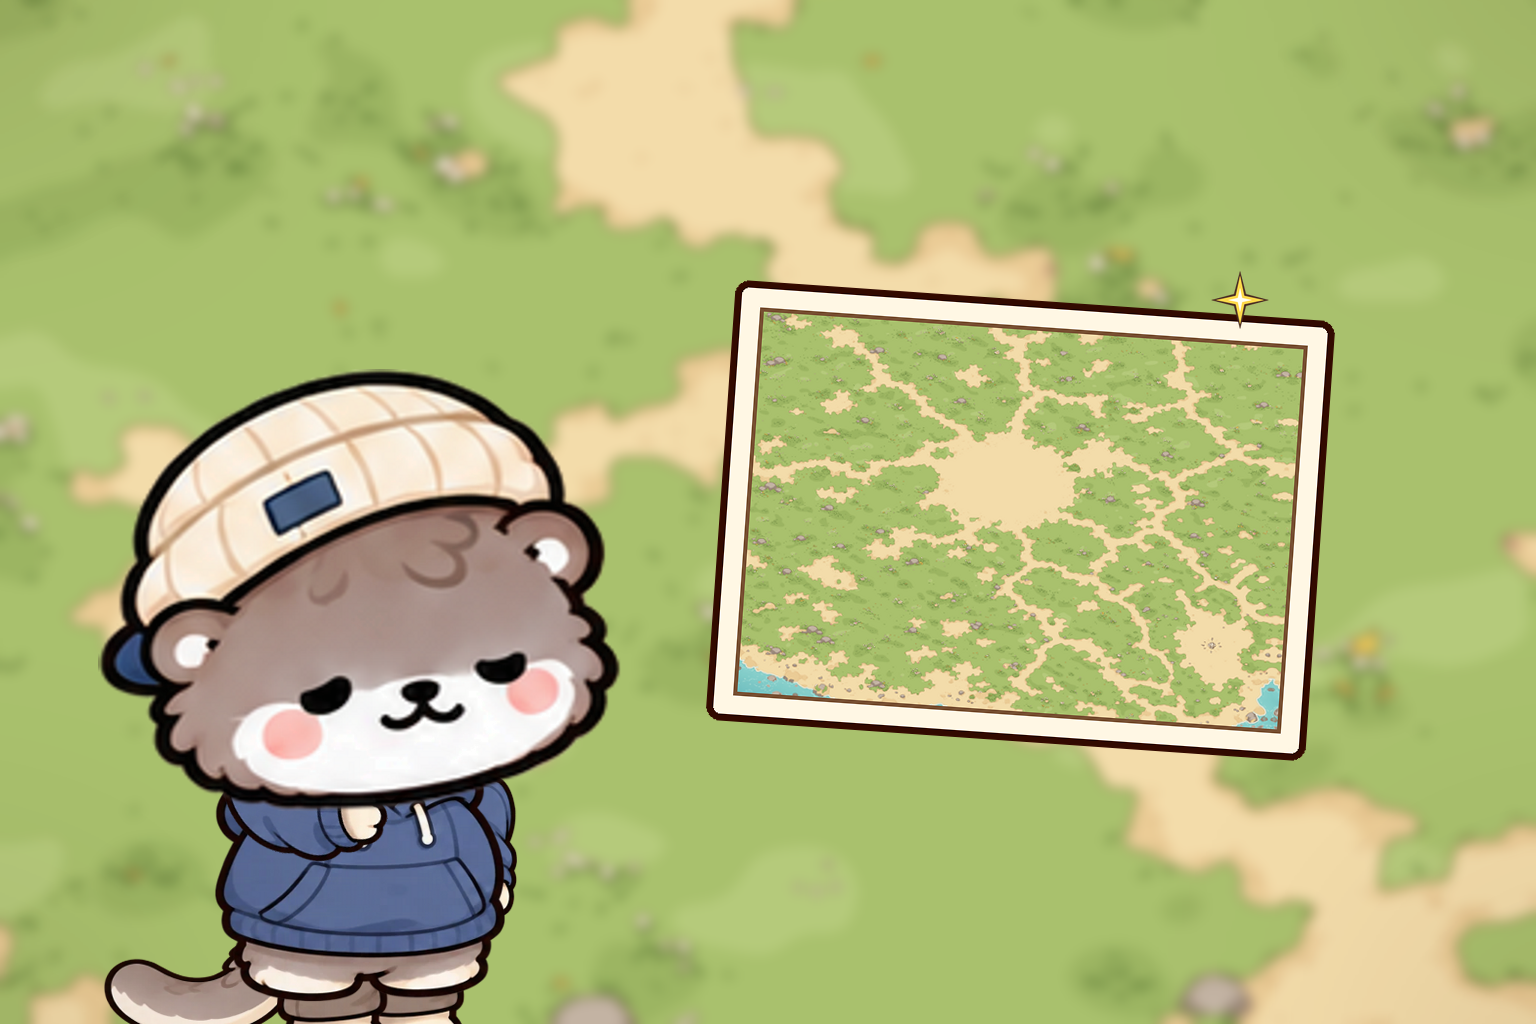
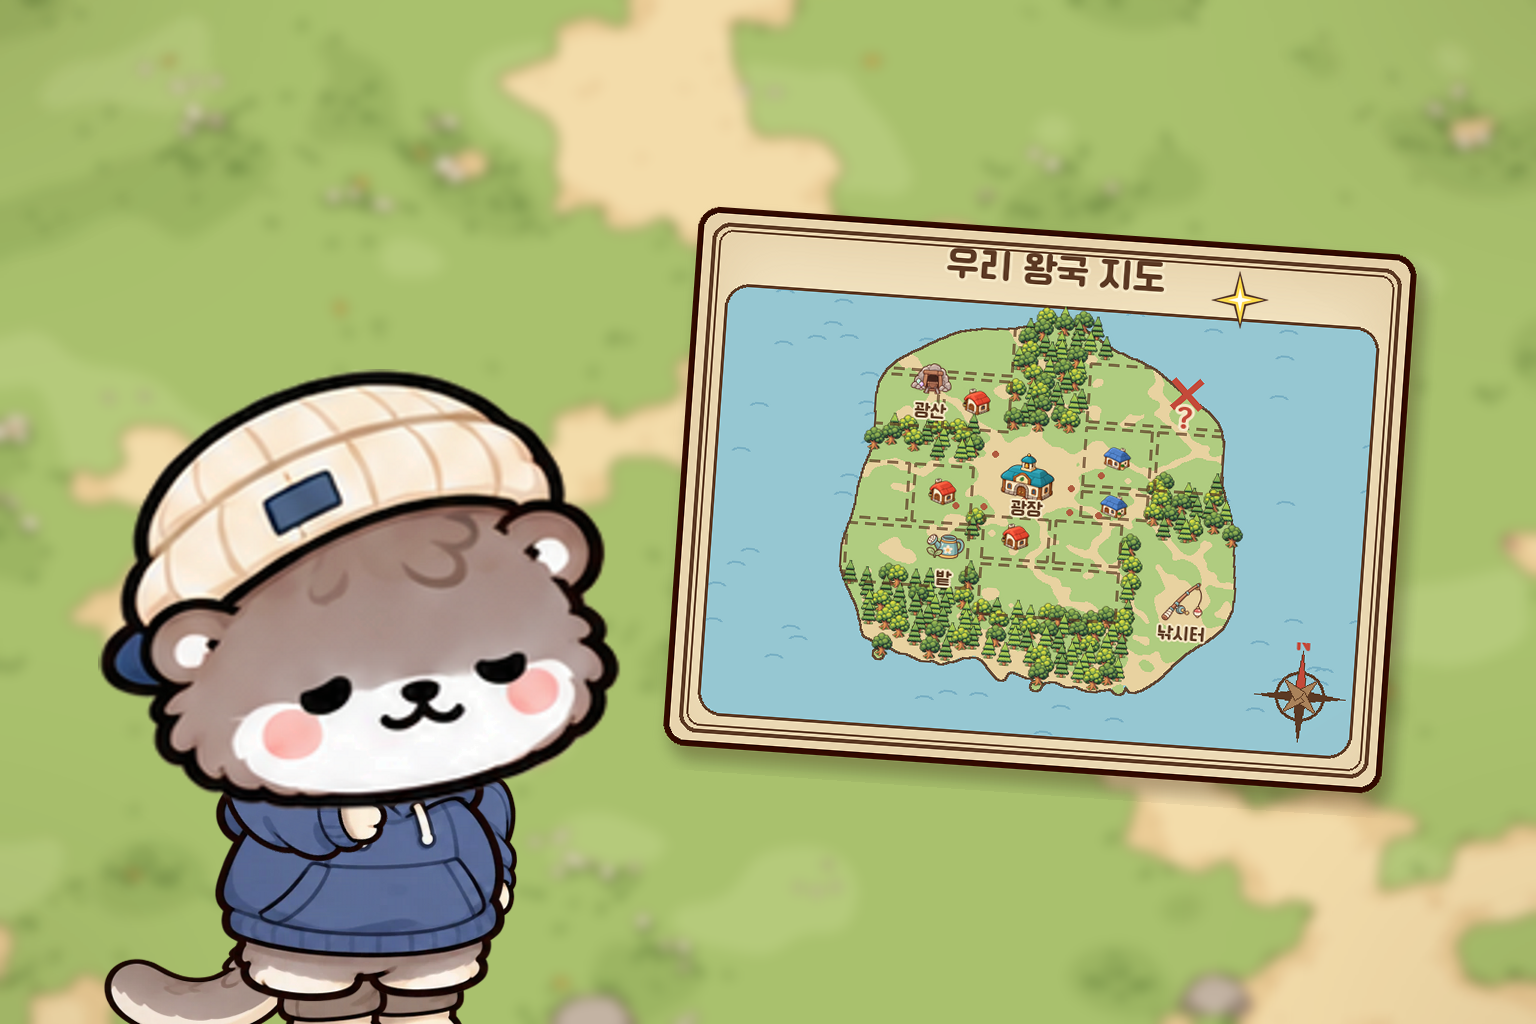
feat: 두리번의 왕국 지도 — 우리 땅 전체 미니어처
- Tools/StoryCuts/worldmap.py: 광장 맵을 섬 모양으로 잘라 지도 색 · 영토 경계 점선 · 숲 · 광장 · 집 · 밭 · 광산 · 낚시터 · 나침반
- 두리번 이야기 B컷과 순간포착 '아 이쪽이었구나' 사진의 지도를 교체

Changed region(s): [[0.4062, 0.1875, 0.9375, 0.8125]]

diff --git a/Tools/StoryCuts/worldmap.py b/Tools/StoryCuts/worldmap.py
@@ -1,0 +1,262 @@
+"""두리번이 그린 왕국 지도: 우리 땅 전체(광장 맵 + 5방향 영토 + 바닷가)를 양피지 위 미니어처로.
+
+땅 모양은 진짜 맵(Plaza_WorldMap.jpg)을 줄여 지도 색으로 칠하고, 영토 경계(territory_layout.json)를 점선으로,
+영토 밖은 작은 나무 그림(게임 숲 그림)으로 채운다. 광장 · 집 · 밭 · 광산 · 낚시터는 게임 그림을 작게.
+
+    python Tools/StoryCuts/worldmap.py out.png      # 지도만 미리 보기
+"""
+import json
+import math
+import random
+import sys
+
+from PIL import Image, ImageChops, ImageDraw, ImageFilter, ImageFont
+
+import scene as s
+from scene import img, fit
+
+LAYOUT = json.loads((s.ART / "Plaza/territory_layout.json").read_text(encoding="utf-8"))
+TITLE_FONT = s.ROOT / "Assets/Fonts/Cafe24Ssurround-v2.0.otf"
+BODY_FONT = s.ROOT / "Assets/Fonts/NanumSquareRoundOTFR.otf"
+
+INK = (92, 58, 36)
+PARCHMENT = (244, 230, 196)
+SEA = (150, 199, 210)
+SEA_DEEP = (120, 176, 196)
+GRASS = (176, 204, 128)
+SAND = (232, 210, 160)
+
+
+def _ground_to_map(x, y, k, off):
+    """territory_layout 바닥 좌표 → 지도 그림 좌표"""
+    m = LAYOUT["map"]
+    return off[0] + (x - m["x0"]) * k, off[1] + (y - m["y0"]) * k
+
+
+def _land_colors(world):
+    """맵 그림을 지도 색 세 가지(바다 · 모래길 · 풀)로"""
+    rgb = world.convert("RGB")
+    r, g, b = [ch.point(lambda v: v) for ch in rgb.split()]
+    px = rgb.load()
+    out = Image.new("RGB", rgb.size)
+    o = out.load()
+    for y in range(rgb.height):
+        for x in range(rgb.width):
+            rr, gg, bb = px[x, y]
+            if bb > rr + 25 and bb > gg - 10:
+                o[x, y] = SEA
+            elif rr > 200 and gg > 175 and bb > 120:
+                o[x, y] = SAND
+            else:
+                o[x, y] = GRASS
+    # 잔무늬를 지우고 덩어리만 (지도처럼)
+    return out.filter(ImageFilter.ModeFilter(9)).filter(ImageFilter.ModeFilter(7))
+
+
+def _outline(mask, width, color):
+    """마스크 가장자리에 잉크 선"""
+    edge = ImageChops.subtract(mask.filter(ImageFilter.MaxFilter(width | 1)), mask)
+    layer = Image.new("RGBA", mask.size, color + (0,))
+    layer.putalpha(edge.point(lambda v: 230 if v > 60 else 0))
+    return layer
+
+
+def _dashed_rect(d, box, dash=10, gap=8, width=3, color=INK + (170,)):
+    x0, y0, x1, y1 = box
+    for (ax, ay, bx, by) in ((x0, y0, x1, y0), (x1, y0, x1, y1), (x1, y1, x0, y1), (x0, y1, x0, y0)):
+        length = math.hypot(bx - ax, by - ay)
+        n = int(length // (dash + gap)) + 1
+        for i in range(n):
+            t0 = i * (dash + gap) / length
+            t1 = min(1, (i * (dash + gap) + dash) / length)
+            d.line((ax + (bx - ax) * t0, ay + (by - ay) * t0, ax + (bx - ax) * t1, ay + (by - ay) * t1), fill=color, width=width)
+
+
+def _compass(size):
+    im = Image.new("RGBA", (size, size))
+    d = ImageDraw.Draw(im)
+    c = size / 2
+    r = size * .42
+    d.ellipse((c - r * .55, c - r * .55, c + r * .55, c + r * .55), outline=INK + (255,), width=3)
+    for a, long in ((0, 1), (90, 1), (180, 1), (270, 1), (45, .55), (135, .55), (225, .55), (315, .55)):
+        rad = math.radians(a - 90)
+        tip = (c + math.cos(rad) * r * long, c + math.sin(rad) * r * long)
+        side = math.radians(a)
+        w = r * .14
+        left = (c + math.cos(side) * w, c + math.sin(side) * w)
+        right = (c - math.cos(side) * w, c - math.sin(side) * w)
+        fill = (196, 74, 58, 255) if a == 0 else (INK + (255,) if long == 1 else (170, 130, 90, 255))
+        d.polygon([tip, left, (c, c), right], fill=fill, outline=INK + (255,))
+    font = ImageFont.truetype(str(TITLE_FONT), int(size * .2))
+    d.text((c, c - r - size * .02), "N", font=font, fill=(196, 74, 58, 255), anchor="ms")
+    return im
+
+
+def _label(d, xy, text, size, font=TITLE_FONT, fill=INK, stroke=PARCHMENT):
+    f = ImageFont.truetype(str(font), size)
+    d.text(xy, text, font=f, fill=fill + (255,), anchor="mm", stroke_width=max(2, size // 9), stroke_fill=stroke + (255,))
+
+
+def miniature_map(width=1200, height=900, seed=7):
+    """양피지 지도 한 장 (RGBA)"""
+    rnd = random.Random(seed)
+    m = LAYOUT["map"]
+    gw, gh = m["x1"] - m["x0"], m["y1"] - m["y0"]
+    margin = int(width * .06)
+    # 바다 판: 제목 아래부터 테두리 안쪽까지
+    sea_box = (margin * .75, margin + height * .06, width - margin * .75, height - margin * .75)
+    k = min((sea_box[2] - sea_box[0]) * .9 / gw, (sea_box[3] - sea_box[1]) * .92 / gh)
+    off = ((sea_box[0] + sea_box[2] - gw * k) / 2, (sea_box[1] + sea_box[3] - gh * k) / 2)
+
+    # 양피지 (가장자리가 조금 짙고 얼룩진)
+    paper = Image.new("RGBA", (width, height), PARCHMENT + (255,))
+    stain = Image.new("L", (width, height), 0)
+    sd = ImageDraw.Draw(stain)
+    for _ in range(18):
+        x, y, r = rnd.uniform(0, width), rnd.uniform(0, height), rnd.uniform(40, 160)
+        sd.ellipse((x - r, y - r, x + r, y + r), fill=rnd.randint(10, 26))
+    edge = Image.new("L", (width, height), 0)
+    ImageDraw.Draw(edge).rectangle((0, 0, width, height), outline=70, width=int(width * .05))
+    shade = ImageChops.add(stain.filter(ImageFilter.GaussianBlur(40)), edge.filter(ImageFilter.GaussianBlur(int(width * .04))))
+    paper = Image.composite(Image.new("RGBA", (width, height), (196, 160, 110, 255)), paper, shade)
+
+    # 바다 (물결 줄)
+    sea = Image.new("RGBA", (width, height), SEA + (255,))
+    wd = ImageDraw.Draw(sea)
+    for _ in range(int(width * height / 4500)):
+        x, y = rnd.uniform(0, width), rnd.uniform(0, height)
+        wd.arc((x - 10, y - 4, x + 10, y + 6), 200, 340, fill=SEA_DEEP + (255,), width=2)
+    sea_mask = Image.new("L", (width, height), 0)
+    ImageDraw.Draw(sea_mask).rounded_rectangle(tuple(int(v) for v in sea_box), 24, fill=255)
+    paper.paste(sea, (0, 0), sea_mask)
+
+    # 땅 (진짜 맵을 줄여 지도 색으로) — 네모 맵을 섬 모양으로 잘라 바다에 띄움
+    world = s.world_map().resize((int(gw * k), int(gh * k)), Image.LANCZOS)
+    land = _land_colors(world).convert("RGBA")
+    island = Image.new("L", land.size, 0)
+    cx, cy = land.width / 2, land.height / 2
+    phase = [rnd.uniform(0, 6.28) for _ in range(3)]
+    outline = []
+    for i in range(240):
+        a = i / 240 * 2 * math.pi
+        ca, sa = math.cos(a), math.sin(a)
+        # 모서리가 둥근 네모(초타원) + 들쭉날쭉한 해안
+        r = 1 / ((abs(ca) ** 2.7 + abs(sa) ** 2.7) ** (1 / 2.7))
+        r *= 1.0 + .05 * math.sin(3 * a + phase[0]) + .03 * math.sin(7 * a + phase[1]) + .015 * math.sin(13 * a + phase[2])
+        outline.append((cx + ca * r * cx * .93, cy + sa * r * cy * .93))
+    ImageDraw.Draw(island).polygon(outline, fill=255)
+    land_mask = Image.new("L", land.size, 0)
+    lp, mp, ip = land.load(), land_mask.load(), island.load()
+    for y in range(land.height):
+        for x in range(land.width):
+            if lp[x, y][:3] != SEA and ip[x, y]:
+                mp[x, y] = 255
+    land_mask = land_mask.filter(ImageFilter.ModeFilter(5))
+    mp = land_mask.load()
+    paper.paste(land, (int(off[0]), int(off[1])), land_mask)
+    coast = _outline(land_mask, 5, INK)
+    paper.alpha_composite(coast, (int(off[0]), int(off[1])))
+    # 바다 판 테두리
+    ImageDraw.Draw(paper).rounded_rectangle(tuple(int(v) for v in sea_box), 24, outline=INK + (200,), width=3)
+
+    d = ImageDraw.Draw(paper)
+    # 영토 밖 = 숲: 작은 나무를 흩뿌림 (시작 땅 · 영토 · 바닷가는 비움)
+    regions = [r["rect"] for r in LAYOUT["regions"]]
+
+    def in_region(gx, gy):
+        return any(r["x0"] <= gx <= r["x1"] and r["y0"] <= gy <= r["y1"] for r in regions)
+
+    trees = [fit(img(f"Plaza/Territory/Forest_{n}.png"), int(height * .045)) for n in ("Pine_0", "Pine_1", "Oak_0", "Oak_1")]
+    step = height * .03
+    gy = m["y0"] + 60
+    pts = []
+    while gy < m["y1"]:
+        gx = m["x0"] + 60
+        while gx < m["x1"]:
+            jx, jy = gx + rnd.uniform(-.35, .35) * step / k, gy + rnd.uniform(-.3, .3) * step / k
+            px_, py_ = _ground_to_map(jx, jy, k, off)
+            lx, ly = int(px_ - off[0]), int(py_ - off[1])
+            if 0 <= lx < land.width and 0 <= ly < land.height and mp[lx, ly] and not in_region(jx, jy):
+                pts.append((px_, py_))
+            gx += step / k
+        gy += step / k * .8
+    for px_, py_ in sorted(pts, key=lambda p: p[1]):
+        t = rnd.choice(trees)
+        paper.alpha_composite(t, (int(px_ - t.width / 2), int(py_ - t.height)))
+
+    # 영토 경계: 점선 네모 (섬 안쪽만)
+    dashes = Image.new("RGBA", (width, height))
+    dd = ImageDraw.Draw(dashes)
+    for r in LAYOUT["regions"]:
+        if r["id"] == "start" or r["id"].startswith("shore"):
+            continue
+        a = _ground_to_map(r["rect"]["x0"], r["rect"]["y0"], k, off)
+        b = _ground_to_map(r["rect"]["x1"], r["rect"]["y1"], k, off)
+        _dashed_rect(dd, (a[0] + 3, a[1] + 3, b[0] - 3, b[1] - 3))
+    on_island = Image.new("L", (width, height), 0)
+    on_island.paste(island, (int(off[0]), int(off[1])))
+    dashes.putalpha(ImageChops.multiply(dashes.getchannel("A"), on_island))
+    paper.alpha_composite(dashes)
+
+    # 길: 광장에서 각 방향 집으로 점선 발자국 길
+    plaza = _ground_to_map((LAYOUT["start"]["x0"] + LAYOUT["start"]["x1"]) / 2, (LAYOUT["start"]["y0"] + LAYOUT["start"]["y1"]) / 2, k, off)
+    for home in LAYOUT["homes"]["list"]:
+        hx, hy = _ground_to_map(home["x"], home["y"], k, off)
+        n = int(math.hypot(hx - plaza[0], hy - plaza[1]) / 14)
+        for i in range(1, n):
+            t = i / n
+            x = plaza[0] + (hx - plaza[0]) * t
+            y = plaza[1] + (hy - plaza[1]) * t + math.sin(t * math.pi) * 18
+            if i % 2:
+                d.ellipse((x - 3, y - 3, x + 3, y + 3), fill=(176, 92, 64, 230))
+        house = fit(img("Plaza/Props/Prop_House_Red_OtterStyle.png" if hx < plaza[0] else "Plaza/Props/Prop_House_Blue_OtterStyle.png"), int(height * .06))
+        paper.alpha_composite(house, (int(hx - house.width / 2), int(hy - house.height * .8)))
+
+    # 이름 붙은 곳: 광장(마을 회관) · 밭 · 광산 · 낚시터
+    shore = next(r for r in LAYOUT["regions"] if r["id"] == "shore")["rect"]
+    marks = [
+        ("Settlement/Prop_TownHall.png", plaza[0], plaza[1] + height * .03, .11, "광장"),
+        ("UI/Travel/ICON_Place_Farm.png", *_ground_to_map(-1900, 330, k, off), .075, "밭"),
+        ("UI/Travel/ICON_Place_Mine.png", *_ground_to_map(-2150, -1330, k, off), .08, "광산"),
+        ("UI/Travel/ICON_Place_FishingSpot.png", *_ground_to_map((shore["x0"] + shore["x1"]) / 2, shore["y0"] + 700, k, off), .08, "낚시터"),
+    ]
+    for path, x, y, h, name in marks:
+        icon = fit(img(path), int(height * h))
+        paper.alpha_composite(icon, (int(x - icon.width / 2), int(y - icon.height * .85)))
+        _label(d, (x, y + height * .03), name, int(height * .032))
+
+    # 아직 못 가 본 곳: 빨간 X (두리번의 다음 목적지)
+    x, y = _ground_to_map(400, -1500, k, off)
+    d.line((x - 14, y - 14, x + 14, y + 14), fill=(196, 74, 58, 255), width=7)
+    d.line((x - 14, y + 14, x + 14, y - 14), fill=(196, 74, 58, 255), width=7)
+    _label(d, (x, y + height * .045), "?", int(height * .05), fill=(196, 74, 58))
+
+    # 나침반 · 제목 · 테두리
+    comp = _compass(int(height * .2))
+    paper.alpha_composite(comp, (int(width - margin - comp.width * .9), int(height - margin - comp.height * .95)))
+    _label(d, (width / 2, margin * .9), "우리 왕국 지도", int(height * .065))
+    d.rounded_rectangle((margin * .35, margin * .35, width - margin * .35, height - margin * .35), 18, outline=INK + (200,), width=4)
+    d.rounded_rectangle((margin * .5, margin * .5, width - margin * .5, height - margin * .5), 14, outline=INK + (120,), width=2)
+
+    # 종이 모양 (모서리 둥글게)
+    shape = Image.new("L", (width, height), 0)
+    ImageDraw.Draw(shape).rounded_rectangle((0, 0, width - 1, height - 1), 22, fill=255)
+    paper.putalpha(shape)
+    return paper
+
+
+def held_map(width, height, angle=0.0):
+    """장면에 들고 있는 지도: 미니어처 지도 + 잉크 외곽선 + 그림자"""
+    m = miniature_map(width, height)
+    pad = 24
+    im = Image.new("RGBA", (width + pad * 2, height + pad * 2))
+    shadow = Image.new("RGBA", im.size)
+    ImageDraw.Draw(shadow).rounded_rectangle((pad + 8, pad + 12, pad + width + 8, pad + height + 12), 22, fill=(60, 35, 15, 90))
+    im.alpha_composite(shadow.filter(ImageFilter.GaussianBlur(8)))
+    im.alpha_composite(m, (pad, pad))
+    ImageDraw.Draw(im).rounded_rectangle((pad, pad, pad + width - 1, pad + height - 1), 22, outline=s.OUTLINE, width=6)
+    return im.rotate(angle, resample=Image.BICUBIC, expand=True) if angle else im
+
+
+if __name__ == "__main__":
+    miniature_map().save(sys.argv[1] if len(sys.argv) > 1 else "worldmap.png")

diff --git a/Tools/StoryCuts/build.py b/Tools/StoryCuts/build.py
@@ -14,6 +14,7 @@ import sys
 from PIL import Image, ImageDraw
 
 import scene as s
+import worldmap
 from scene import Cut, img, fit, map_bg, portrait_bg
 
 OUT = s.ROOT / "Assets/Art/Collection/Cutscenes"
@@ -306,8 +307,7 @@ def duribeon_a():
 def duribeon_b():
     c = Cut(map_bg(3200, 900, zoom=1.5))
     c.blur_back(1024, 6)
-    chart = s.world_map().resize((560, 548))
-    c.put(s.paper(600, 440, inner=chart.crop((0, 40, 560, 470))), 1020, 520, (.5, .5), angle=-4)
+    c.put(worldmap.held_map(720, 540, angle=-4), 1040, 500, (.5, .5))
     c.fx("Settlement/FX_Sparkle.png", [(1240, 300)], 60)
     c.otter("HoodieRigV1", 360, 1070, 640, head="smile", nearArm=-1.3)
     return c.vignette(.35)
@@ -591,12 +591,16 @@ def moment_lamp_map():
     c.prop("Plaza/Props/Prop_Lamp.png", 210, 900, 640)
     c.otter("HoodieRigV1", 500, 990, 500, head="smile", nearArm=-1.2, head_angle=.2)
     c.otter("KnitRigV1", 1260, 990, 500, head="smile", nearArm=-1.2, head_angle=.2, flip=True)
-    chart = s.world_map().resize((560, 548))
-    c.put(s.paper(360, 260, inner=chart.crop((40, 60, 600, 460))), 880, 600, (.5, .5), angle=3)
     c.night()
     c.prop("Settlement/Night_Lamp.png", 210, 900, 640)
-    c.light(300, 460, 360, strength=.5).light(880, 600, 340, strength=.35)
-    c.fx("Settlement/FX_Sparkle.png", [(880, 400), (1000, 440, .6), (760, 450, .6)], 70)
+    c.light(300, 460, 360, strength=.5).light(880, 600, 380, strength=.4)
+    # 지도는 등불 빛 아래라 밤 색을 덜 탐 (밤 색 위에 따로 붙이고 살짝만 어둡게)
+    held = worldmap.held_map(460, 345, angle=3)
+    dim = Image.new("RGBA", held.size, (40, 40, 90, 0))
+    dim.putalpha(held.getchannel("A").point(lambda a: int(a * .18)))
+    held.alpha_composite(dim)
+    c.put(held, 880, 600, (.5, .5))
+    c.fx("Settlement/FX_Sparkle.png", [(880, 365), (1010, 390, .6), (750, 395, .6)], 64)
     c.scatter("Settlement/FX_Firefly.png", (300, 100, 1500, 700), 8, 40, seed=34)
     return c.vignette(.45, (15, 15, 45))
 

diff --git a/Docs/도감_해달이야기_작업기록.md b/Docs/도감_해달이야기_작업기록.md
@@ -11,6 +11,7 @@
 
 ## 컷 그림 (`Tools/StoryCuts`)
 - 이미지 생성 대신 **게임 그림으로 장면을 구성**: 해달은 광장 리그(`RiggedLookSetup` 매핑 그대로) 파츠를 `rig.py`가 `QuarterRigView`와 같은 계산으로 조립(서기·손 들기·앉아 졸기·잠든/웃는 얼굴·물건 들기), 배경은 리깅 그림체로 맞춘 광장 맵(`Plaza_WorldMap.jpg`)·광산 배경, 건물·소품·FX는 `Assets/Art/Settlement`·`Plaza/Props` 등.
+- 두리번의 지도(이야기 B컷 · 순간포착 '아 이쪽이었구나')는 `worldmap.py`가 그린 **왕국 전체 미니어처 지도**: 진짜 맵을 섬 모양으로 잘라 지도 색으로 칠하고, 영토 경계(territory_layout.json) 점선 · 영토 밖 숲 · 광장 · 각 방향 집 · 밭 · 광산 · 낚시터 · 나침반 · 다음 목적지 X. 미리 보기: `python Tools/StoryCuts/worldmap.py out.png`.
 - 게임에 그림이 없는 종이·공책·이젤만 리그 외곽선 색(#320a00)으로 단순하게 그림.
 - 다시 그리기: `python Tools/StoryCuts/build.py` (특정 해달만: `build.py otter_toy_sallang`, 미리보기 시트: `--sheet out.png`). 출력은 `Assets/Art/Collection/Cutscenes/CUT_<entryId>_<A|B|C>.png` — 같은 이름이라 GUID 유지.
 - 보들이·포근이·살랑이(꽃 카디건), 데굴이·재잘이·쿵쿵이(줄무늬 니트), 꼼꼼이·영차(케이블 니트)는 광장에서처럼 같은 리그 모습을 쓴다.
